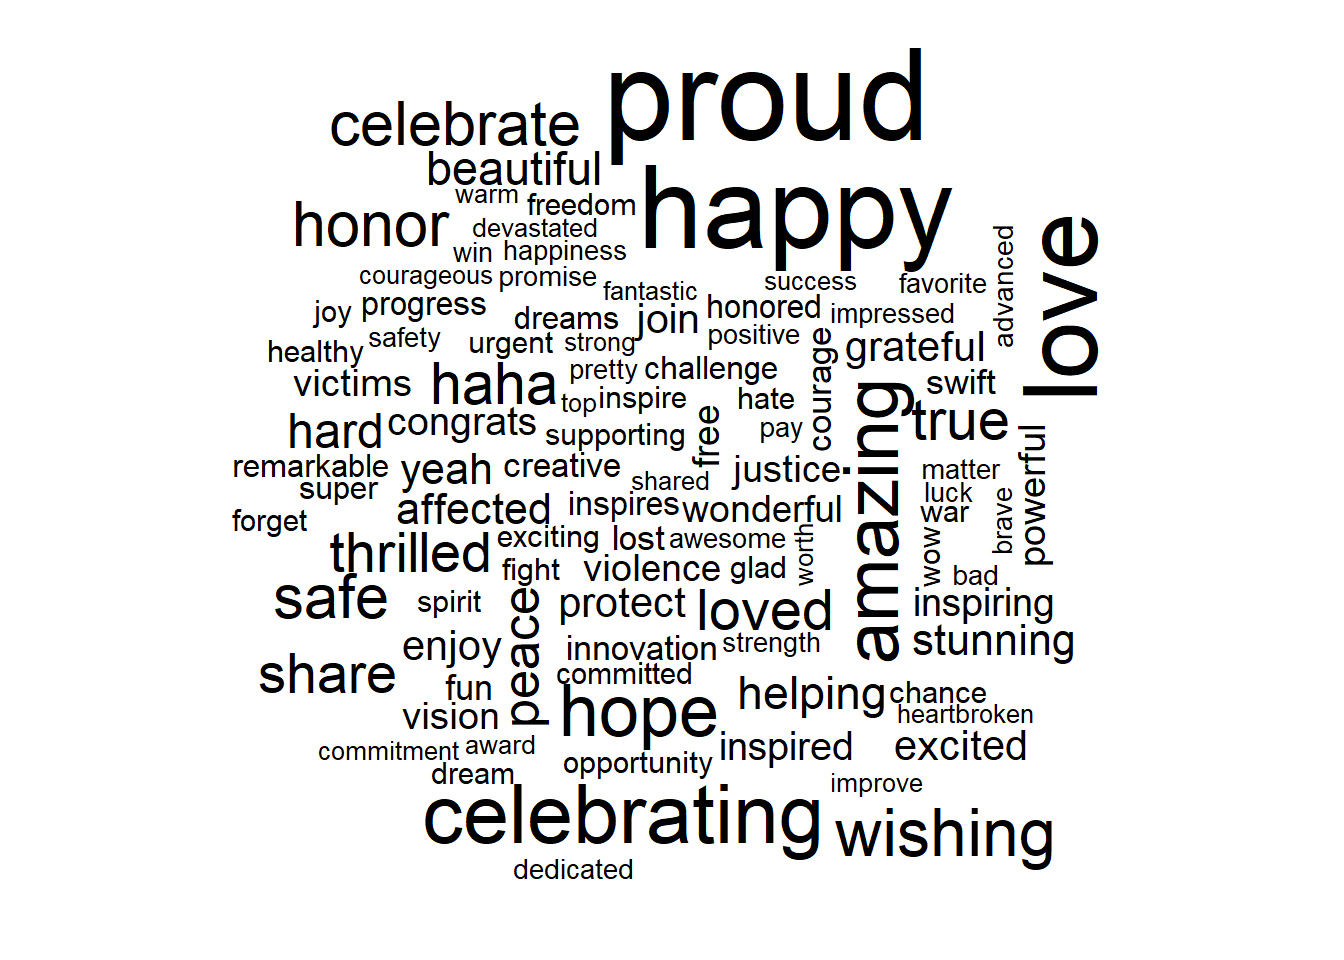
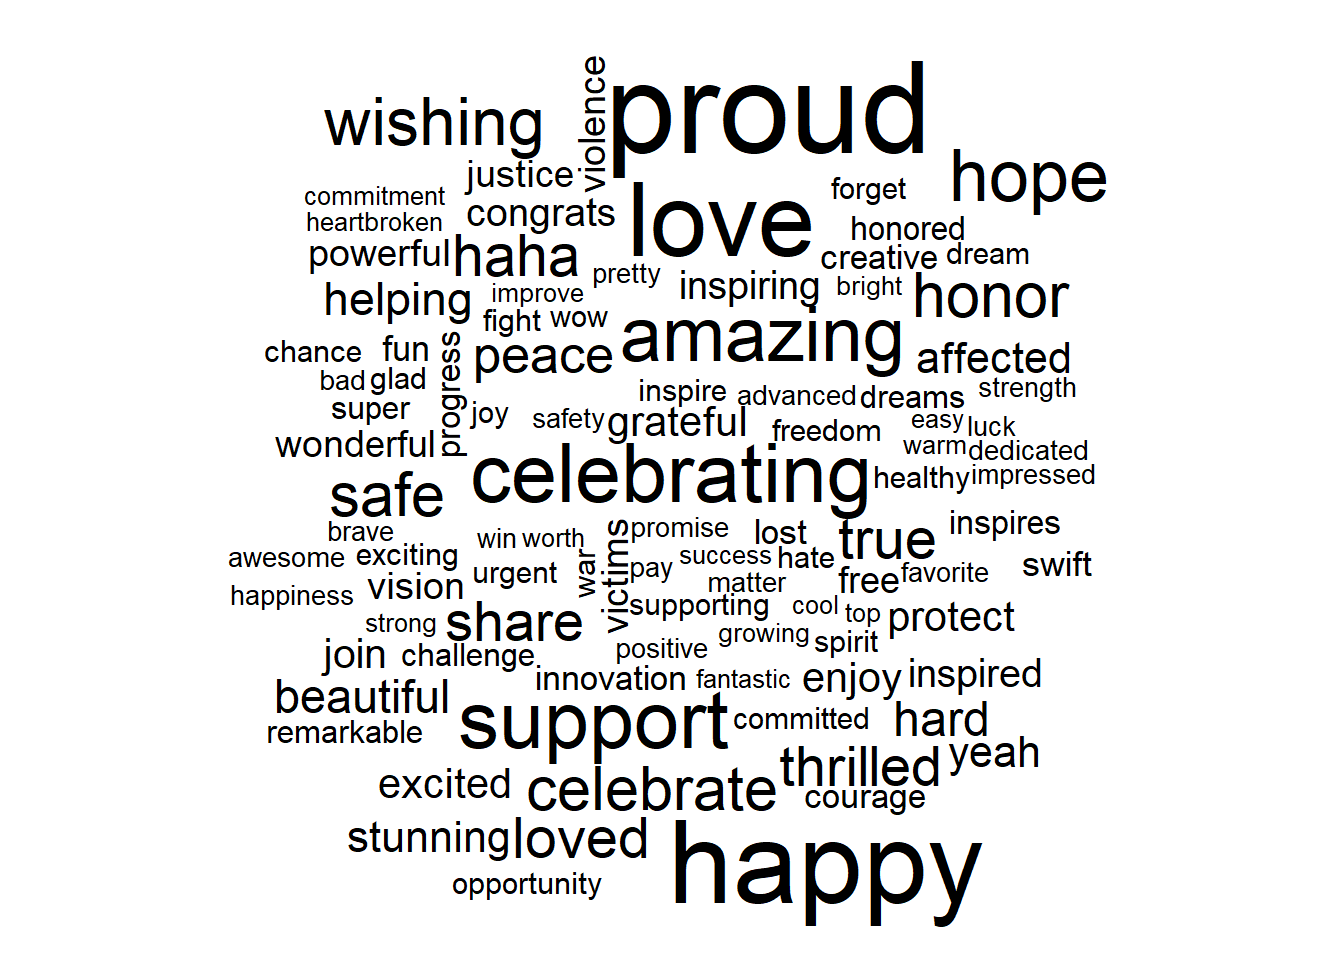
should be final commit

Changed region(s): [[0.1562, 0.0312, 0.8438, 0.9688]]

diff --git a/HW09.html b/HW09.html
@@ -546,8 +546,6 @@ predictingtree %&gt;%
 <pre><code>## Joining, by = &quot;word&quot;</code></pre>
 <pre><code>## Warning in wordcloud(word, n, max.words = 100): congratulations could not be fit on page. It
 ## will not be plotted.</code></pre>
-<pre><code>## Warning in wordcloud(word, n, max.words = 100): support could not be fit on page. It will not
-## be plotted.</code></pre>
 <p><img src="HW09_files/figure-html/unnamed-chunk-8-1.png" width="672" /></p>
 <div id="we-split-our-data-into-train-data-tree_train-and-test-data-for-later-use-tree_test.-then-we-generate-a-decision-tree-first-using-tree_train." class="section level4">
 <h4>We split our data into train data, <code>tree_train</code>, and test data for later use, <code>tree_test</code>. Then, we generate a decision tree, first using <code>tree_train</code>.</h4>

diff --git a/about.html b/about.html
@@ -12,7 +12,7 @@
 <meta name="author" content="Michael Murphy" />
 
 
-<title>about</title>
+<title>About</title>
 
 <script src="site_libs/header-attrs-2.6/header-attrs.js"></script>
 <script src="site_libs/jquery-1.11.3/jquery.min.js"></script>
@@ -304,7 +304,7 @@ $(document).ready(function () {
 
 
 
-<h1 class="title toc-ignore">about</h1>
+<h1 class="title toc-ignore">About</h1>
 <h4 class="author">Michael Murphy</h4>
 <h4 class="date">4/25/2021</h4>
 

diff --git a/index.html b/index.html
@@ -12,7 +12,7 @@
 <meta name="author" content="Michael Murphy" />
 
 
-<title>index</title>
+<title>Home</title>
 
 <script src="site_libs/header-attrs-2.6/header-attrs.js"></script>
 <script src="site_libs/jquery-1.11.3/jquery.min.js"></script>
@@ -304,7 +304,7 @@ $(document).ready(function () {
 
 
 
-<h1 class="title toc-ignore">index</h1>
+<h1 class="title toc-ignore">Home</h1>
 <h4 class="author">Michael Murphy</h4>
 <h4 class="date">4/25/2021</h4>
 
